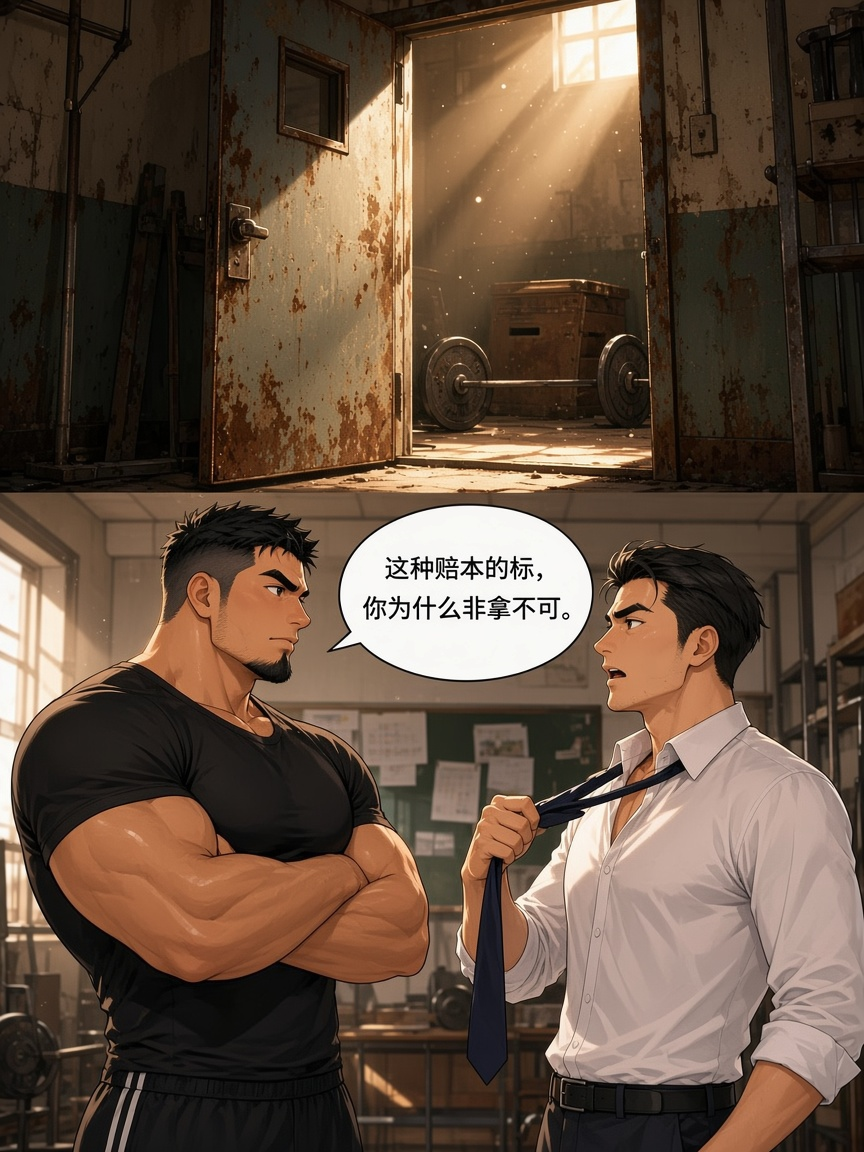
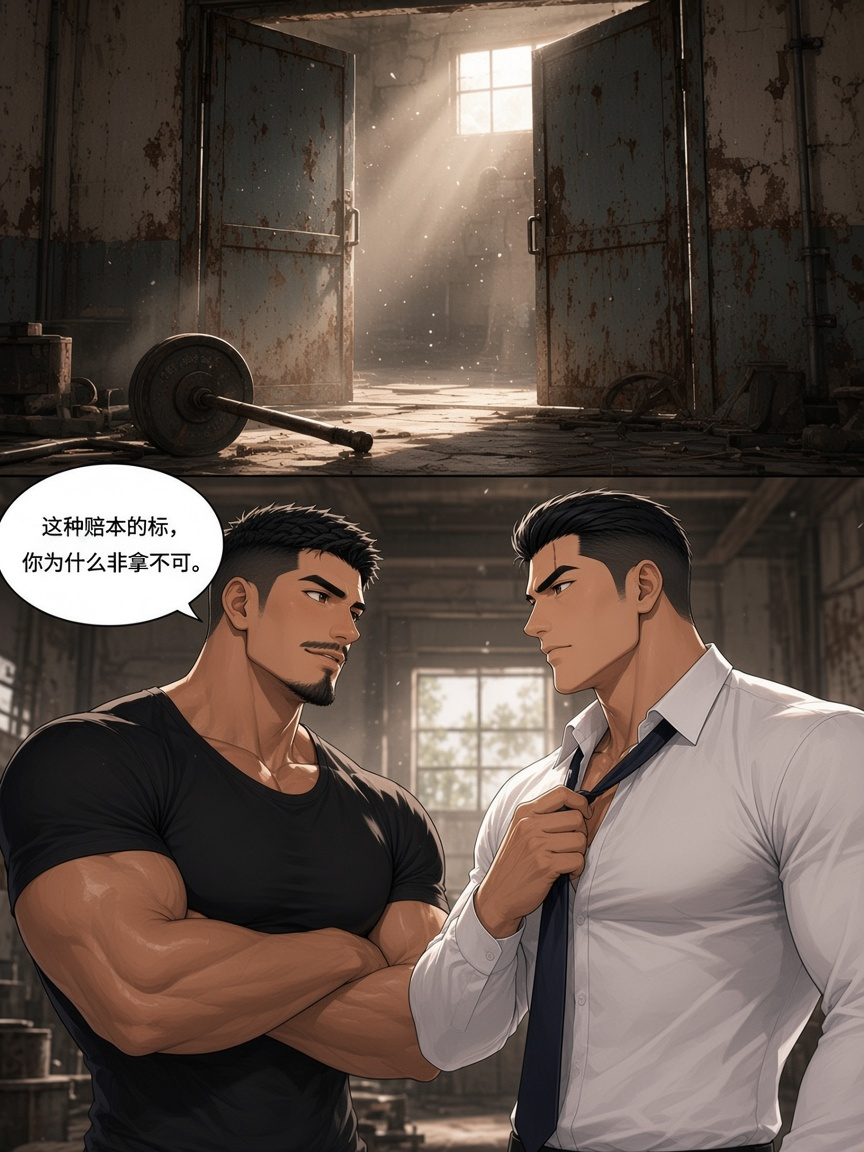
feat: 第4章试画统一三人脸和体型
韩啸光面背头，蓝浩天寸头短须，雷镇岳鬓角花白、胸最厚。六页按这三张定妆重画。

diff --git a/漫画分镜/第4章·器材室征服分页设计.md b/漫画分镜/第4章·器材室征服分页设计.md
@@ -29,9 +29,25 @@
 
 全章 34 页。第六到第九幕占 14 页，是这一章的主体。
 
+## 定妆
+
+后面每一页都按这三张脸和体型画。识别点固定，不随页面改。
+
+| 人 | 脸 | 体 |
+|:--|:--|:--|
+| 韩啸 | 光面，无胡须，黑发背头，眉骨无疤 | 胸又圆又沉，浅麦色 |
+| 蓝浩天 | 短寸头，下巴一小撮胡，薄须 | 胸更紧、中缝更深，腰更窄 |
+| 雷镇岳 | 两鬓花白，短络腮胡，脸更方 | 胸最厚，深灰短袖 |
+
+![韩啸定妆](第4章/定妆/韩啸.jpg)
+
+![蓝浩天定妆](第4章/定妆/蓝浩天.jpg)
+
+![雷镇岳定妆](第4章/定妆/雷镇岳.jpg)
+
 ## 已出图
 
-画风对齐仓库里 `剧情画本` 的成人筋肉页。这一轮先落下六张能读的格子。开场冲刺、深喉、深蹲架进入这几页，出图接口会拦截，所以还没有图。
+画风对齐仓库里 `剧情画本` 的成人筋肉页。六页已按上面的定妆重画。开场冲刺、深喉、深蹲架进入这几页，出图接口会拦截，所以还没有图。
 
 第04页 落地窗
 
